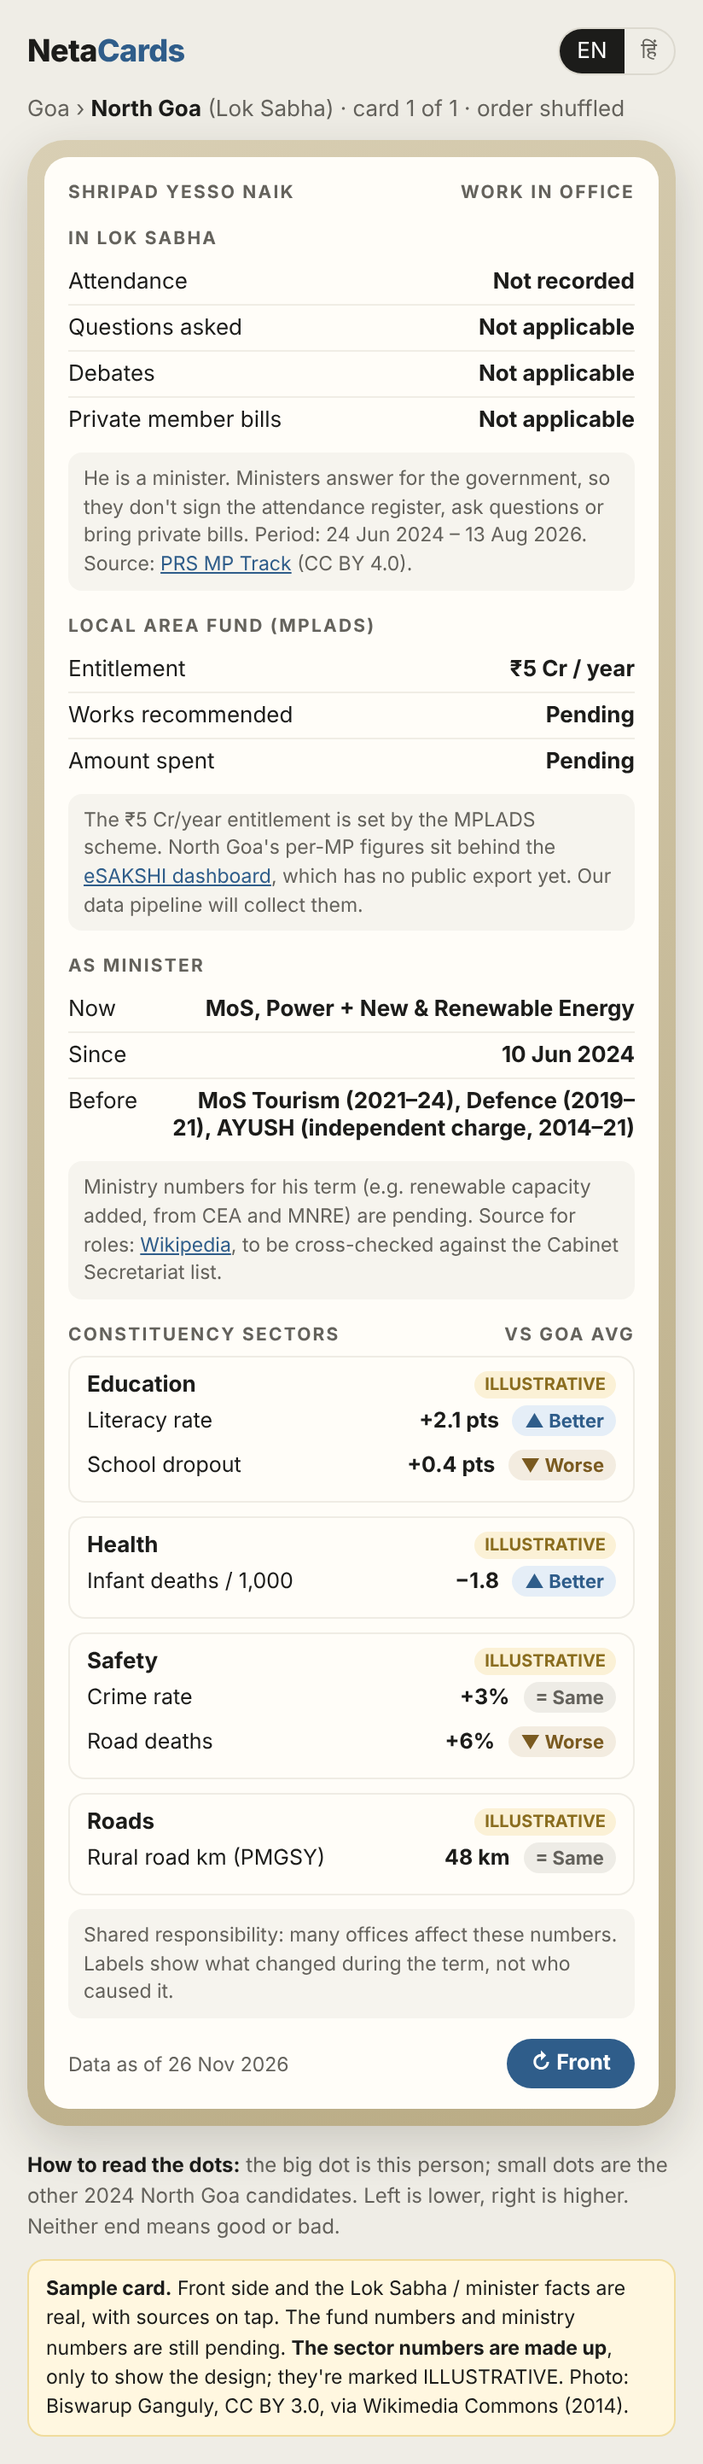
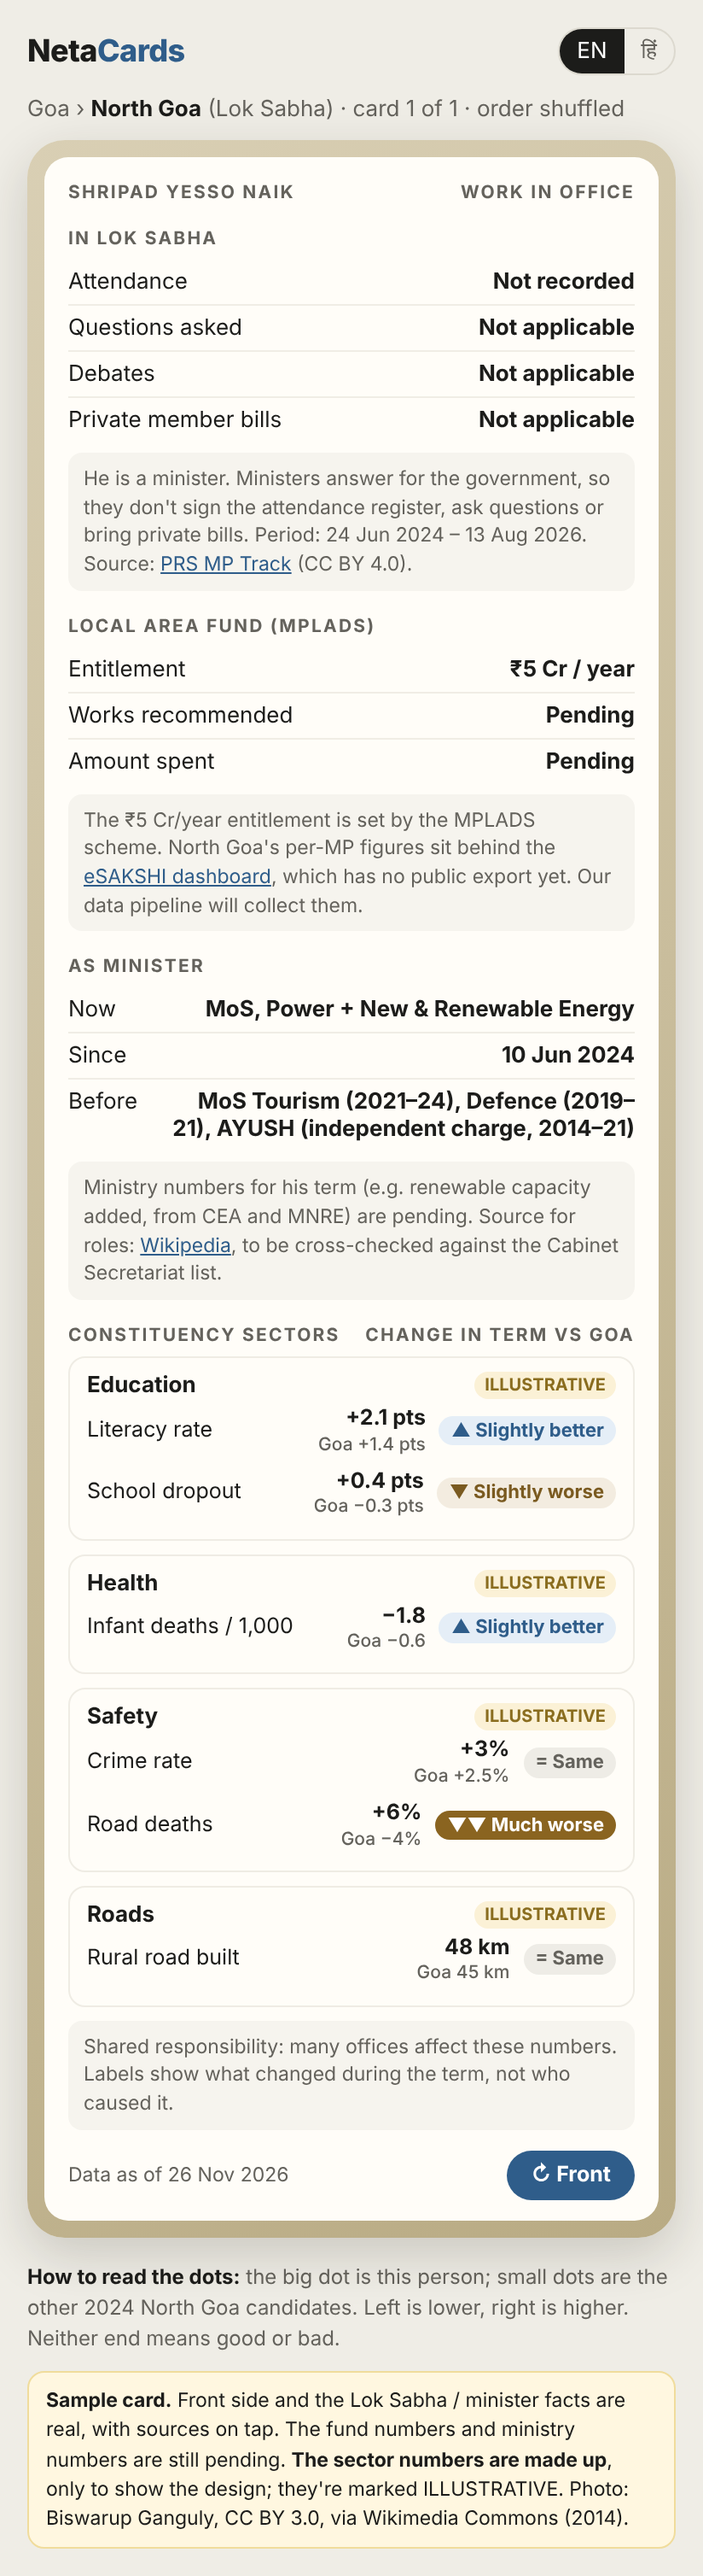
Neta Cards: 5-level sector labels with state comparison
Claude-Session: https://claude.ai/code/session_01KSnZnz1Q3eunecs4m9XQdi

Changed region(s): [[0.0303, 0.0, 0.9709, 0.9979], [0.5461, 0.6237, 0.6068, 0.6549], [0.9102, 0.0, 0.9405, 0.0312]]

diff --git a/neta/index.html b/neta/index.html
@@ -69,12 +69,14 @@ header{width:100%;max-width:380px;display:flex;justify-content:space-between;ali
 /* back */
 .sector{border:1px solid #efece4;border-radius:10px;padding:8px 10px;margin-bottom:8px}
 .sector h4{font-size:13px;display:flex;justify-content:space-between;align-items:center}
-.ind{display:grid;grid-template-columns:1fr auto auto;gap:8px;font-size:12.5px;padding:4px 0;align-items:center}
+.ind{display:grid;grid-template-columns:1fr auto auto;line-height:1.25;gap:8px;font-size:12.5px;padding:4px 0;align-items:center}
 .ind .d{font-weight:700;text-align:right}
 .lab{font-size:11px;font-weight:700;border-radius:12px;padding:2px 7px;white-space:nowrap}
-.lab.better{background:#e5eef7;color:#2f5d8a}
+.lab.mbetter,.lab.sbetter{background:#e5eef7;color:#2f5d8a}
 .lab.same{background:#eeece6;color:#64625c}
-.lab.worse{background:#f3ece0;color:#7a5a20}
+.lab.mworse,.lab.sworse{background:#f3ece0;color:#7a5a20}
+.st{display:block;font-size:10.5px;font-weight:500;color:var(--quiet)}
+.lab.mbetter{background:#2f5d8a;color:#fff}.lab.mworse{background:#8a6420;color:#fff}
 .illus{font-size:10px;font-weight:700;color:#8a6d1f;background:#fbf1d6;border-radius:10px;padding:2px 6px}
 .kv{display:flex;justify-content:space-between;gap:14px;font-size:13px;padding:5px 0;border-top:1px solid #f0ede5}
 .kv:first-of-type{border-top:0}
@@ -143,7 +145,7 @@ header{width:100%;max-width:380px;display:flex;justify-content:space-between;ali
   </div>
 
   <div class="section">
-    <div class="sh"><span data-t="sectors">Constituency sectors</span><span>vs Goa avg</span></div>
+    <div class="sh"><span data-t="sectors">Constituency sectors</span><span>change in term vs Goa</span></div>
     <div id="sectors"></div>
     <div class="note" data-t="shared">Shared responsibility: many offices affect these numbers. Labels show what changed during the term, not who caused it.</div>
   </div>
@@ -196,7 +198,7 @@ function render(){
   $("fund").innerHTML=D.fund.map(k=>`<div class="kv"><span>${esc(k[0])}</span><b>${esc(k[1])}</b></div>`).join("")+(D.fundNote?`<div class="note">${D.fundNote}</div>`:"");
   $("min").innerHTML=D.minister.map(k=>`<div class="kv"><span>${esc(k[0])}</span><b>${esc(k[1])}</b></div>`).join("")+(D.ministerNote?`<div class="note">${D.ministerNote}</div>`:"");
   $("sectors").innerHTML=D.sectors.map(s=>`<div class="sector"><h4>${esc(s.name)} ${s.illustrative?'<span class="illus">ILLUSTRATIVE</span>':''}</h4>`+
-     s.rows.map(r=>`<div class="ind"><span>${esc(r[0])}</span><span class="d">${esc(r[1])}</span><span class="lab ${r[2]}">${{better:"▲ Better",same:"= Same",worse:"▼ Worse"}[r[2]]}</span></div>`).join("")+`</div>`).join("");
+     s.rows.map(r=>`<div class="ind"><span>${esc(r[0])}</span><span class="d">${esc(r[1])}<span class="st">Goa ${esc(r[2])}</span></span><span class="lab ${r[3]}">${{mbetter:"▲▲ Much better",sbetter:"▲ Slightly better",same:"= Same",sworse:"▼ Slightly worse",mworse:"▼▼ Much worse"}[r[3]]}</span></div>`).join("")+`</div>`).join("");
   $("asof").textContent=D.asof;
   $("samplenote").innerHTML=D.sampleNote;
   applyLang();

diff --git a/neta/data.js b/neta/data.js
@@ -48,11 +48,12 @@ window.NETA = {
     ["Before", "MoS Tourism (2021–24), Defence (2019–21), AYUSH (independent charge, 2014–21)"]
   ],
   ministerNote: `Ministry numbers for his term (e.g. renewable capacity added, from CEA and MNRE) are pending. Source for roles: <a href="https://en.wikipedia.org/wiki/Shripad_Naik" target="_blank" rel="noopener">Wikipedia</a>, to be cross-checked against the Cabinet Secretariat list.`,
+  // rows: [indicator, change here, change in Goa, label]. Label = gap between the two, by the published thresholds.
   sectors: [
-    { name: "Education", illustrative: true, rows: [["Literacy rate", "+2.1 pts", "better"], ["School dropout", "+0.4 pts", "worse"]] },
-    { name: "Health", illustrative: true, rows: [["Infant deaths / 1,000", "−1.8", "better"]] },
-    { name: "Safety", illustrative: true, rows: [["Crime rate", "+3%", "same"], ["Road deaths", "+6%", "worse"]] },
-    { name: "Roads", illustrative: true, rows: [["Rural road km (PMGSY)", "48 km", "same"]] }
+    { name: "Education", illustrative: true, rows: [["Literacy rate", "+2.1 pts", "+1.4 pts", "sbetter"], ["School dropout", "+0.4 pts", "−0.3 pts", "sworse"]] },
+    { name: "Health", illustrative: true, rows: [["Infant deaths / 1,000", "−1.8", "−0.6", "sbetter"]] },
+    { name: "Safety", illustrative: true, rows: [["Crime rate", "+3%", "+2.5%", "same"], ["Road deaths", "+6%", "−4%", "mworse"]] },
+    { name: "Roads", illustrative: true, rows: [["Rural road built", "48 km", "45 km", "same"]] }
   ],
   sampleNote: "<b>Sample card.</b> Front side and the Lok Sabha / minister facts are real, with sources on tap. The fund numbers and ministry numbers are still pending. <b>The sector numbers are made up</b>, only to show the design; they're marked ILLUSTRATIVE. Photo: Biswarup Ganguly, CC BY 3.0, via Wikimedia Commons (2014)."
 };
